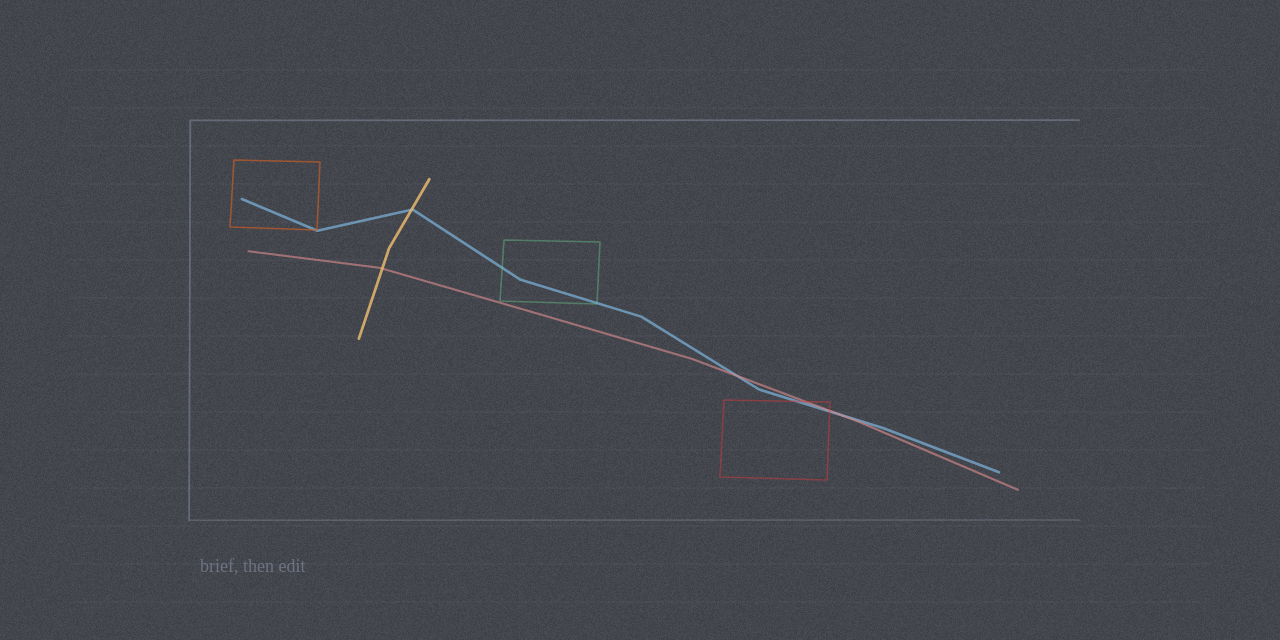
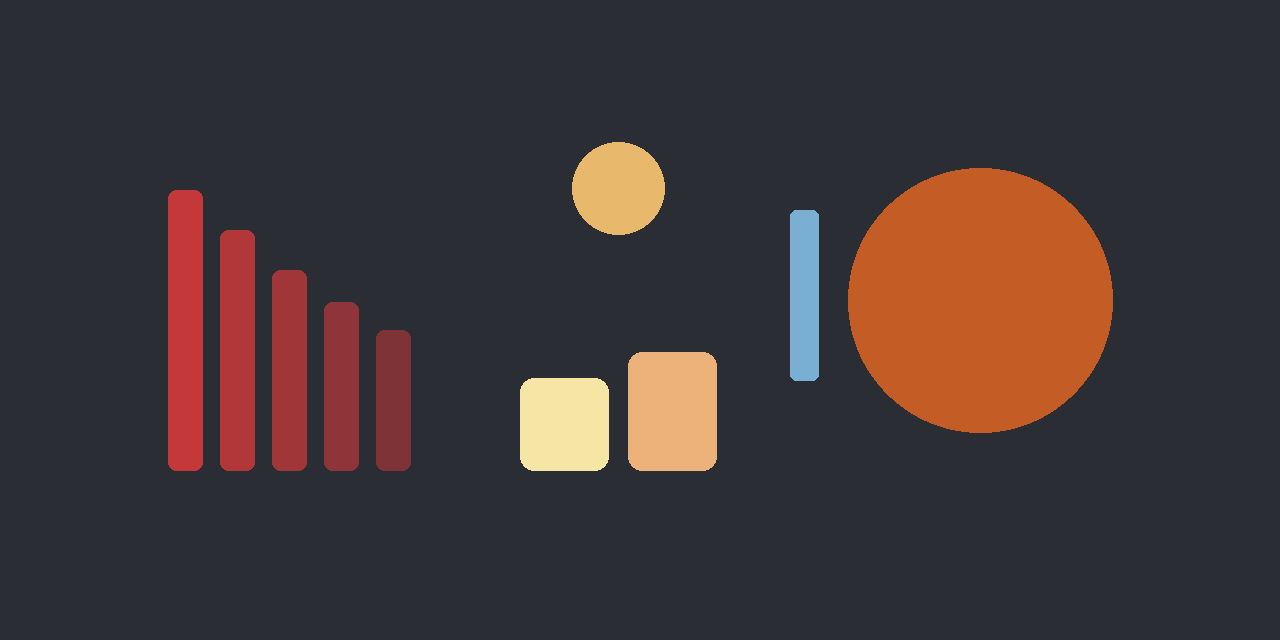
Replace nextjs-reason-reward thumb with flat shapes.

diff --git a/assets/images/nextjs_reason_reward/thumb.html b/assets/images/nextjs_reason_reward/thumb.html
@@ -12,82 +12,58 @@
 <canvas id="c" width="1280" height="640"></canvas>
 <script>
 (function () {
-  var c = document.getElementById('c');
-  var ctx = c.getContext('2d');
+  var ctx = document.getElementById('c').getContext('2d');
   var W = 1280, H = 640;
+  ctx.fillStyle = '#2b2d35';
+  ctx.fillRect(0, 0, W, H);
 
-  function noise() {
-    var img = ctx.createImageData(W, H);
-    var d = img.data;
-    for (var i = 0; i < d.length; i += 4) {
-      var n = 18 + Math.random() * 14;
-      d[i] = 43 + n; d[i + 1] = 45 + n; d[i + 2] = 53 + n; d[i + 3] = 255;
-    }
-    ctx.putImageData(img, 0, 0);
-  }
-
-  function stroke(color, width, points, wobble) {
-    ctx.strokeStyle = color;
-    ctx.lineWidth = width;
-    ctx.lineCap = 'round';
-    ctx.lineJoin = 'round';
+  function roundRect(x, y, w, h, r) {
+    r = Math.min(r, w / 2, h / 2);
     ctx.beginPath();
-    for (var i = 0; i < points.length; i++) {
-      var x = points[i][0] + (Math.random() - 0.5) * wobble;
-      var y = points[i][1] + (Math.random() - 0.5) * wobble;
-      if (i === 0) ctx.moveTo(x, y);
-      else ctx.lineTo(x, y);
-    }
-    ctx.stroke();
-  }
-
-  noise();
-
-  ctx.strokeStyle = 'rgba(168,198,232,0.07)';
-  ctx.lineWidth = 1;
-  for (var y = 70; y < H; y += 38) {
-    ctx.beginPath();
-    ctx.moveTo(70, y);
-    ctx.lineTo(W - 70, y);
-    ctx.stroke();
-  }
-
-  // axes
-  stroke('rgba(143,150,170,0.45)', 1.8, [[190, 520], [190, 120], [1080, 120]], 2);
-  stroke('rgba(143,150,170,0.35)', 1.4, [[190, 520], [1080, 520]], 2);
-
-  // downward reason-reward cloud
-  stroke('rgba(122,175,212,0.75)', 2.6, [
-    [240, 200], [320, 230], [410, 210], [520, 280], [640, 320],
-    [760, 390], [880, 430], [1000, 470]
-  ], 7);
-  stroke('rgba(212,138,138,0.65)', 2.1, [
-    [250, 250], [380, 270], [530, 310], [690, 360], [860, 420], [1020, 490]
-  ], 6);
-
-  // hint lift (short arrow up)
-  stroke('rgba(232,184,109,0.85)', 2.8, [
-    [360, 340], [390, 250], [430, 180]
-  ], 4);
-
-  function box(x, y, w, h, color) {
-    ctx.strokeStyle = color;
-    ctx.lineWidth = 1.6;
-    ctx.beginPath();
-    ctx.moveTo(x + 4, y);
-    ctx.lineTo(x + w, y + 2);
-    ctx.lineTo(x + w - 3, y + h);
-    ctx.lineTo(x, y + h - 3);
+    ctx.moveTo(x + r, y);
+    ctx.arcTo(x + w, y, x + w, y + h, r);
+    ctx.arcTo(x + w, y + h, x, y + h, r);
+    ctx.arcTo(x, y + h, x, y, r);
+    ctx.arcTo(x, y, x + w, y, r);
     ctx.closePath();
-    ctx.stroke();
   }
-  box(230, 160, 90, 70, 'rgba(196,92,38,0.7)');
-  box(720, 400, 110, 80, 'rgba(217,58,58,0.45)');
-  box(500, 240, 100, 64, 'rgba(107,207,142,0.4)');
 
-  ctx.fillStyle = 'rgba(143,150,170,0.55)';
-  ctx.font = '18px ui-serif, Georgia, serif';
-  ctx.fillText('brief, then edit', 200, 572);
+  var base = 470;
+
+  // Long traces, low: five thin bars, tallest on the left
+  var bars = [280, 240, 200, 168, 140];
+  bars.forEach(function (h, i) {
+    ctx.globalAlpha = 0.88 - i * 0.1;
+    ctx.fillStyle = '#D93A3A';
+    roundRect(168 + i * 52, base - h, 34, h, 8);
+    ctx.fill();
+  });
+  ctx.globalAlpha = 1;
+
+  // Brief mid: two short blocks
+  ctx.fillStyle = '#F5E6A6';
+  roundRect(520, base - 92, 88, 92, 14);
+  ctx.fill();
+  ctx.fillStyle = '#EDB27A';
+  roundRect(628, base - 118, 88, 118, 14);
+  ctx.fill();
+
+  // Hint lift: gold disc above the brief blocks
+  ctx.fillStyle = '#e8b86d';
+  ctx.beginPath();
+  ctx.arc(618, 188, 46, 0, Math.PI * 2);
+  ctx.fill();
+
+  // High reward: rust circle
+  ctx.fillStyle = '#c45c26';
+  ctx.beginPath();
+  ctx.arc(980, 300, 132, 0, Math.PI * 2);
+  ctx.fill();
+
+  // AGENTS.md as a slim page
+  ctx.fillStyle = '#7aafd4';
+  roundRect(790, 210, 28, 170, 6);
+  ctx.fill();
 })();
 </script>
 </body>
